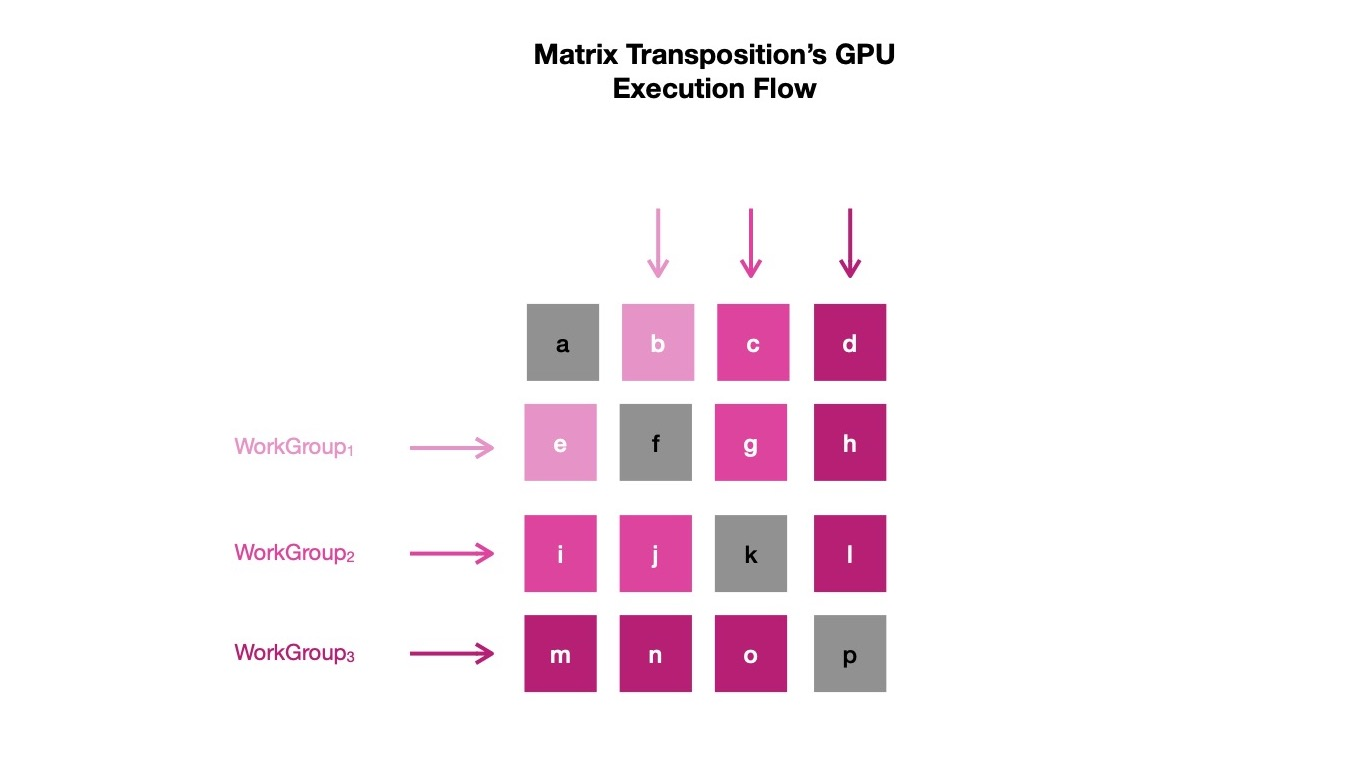
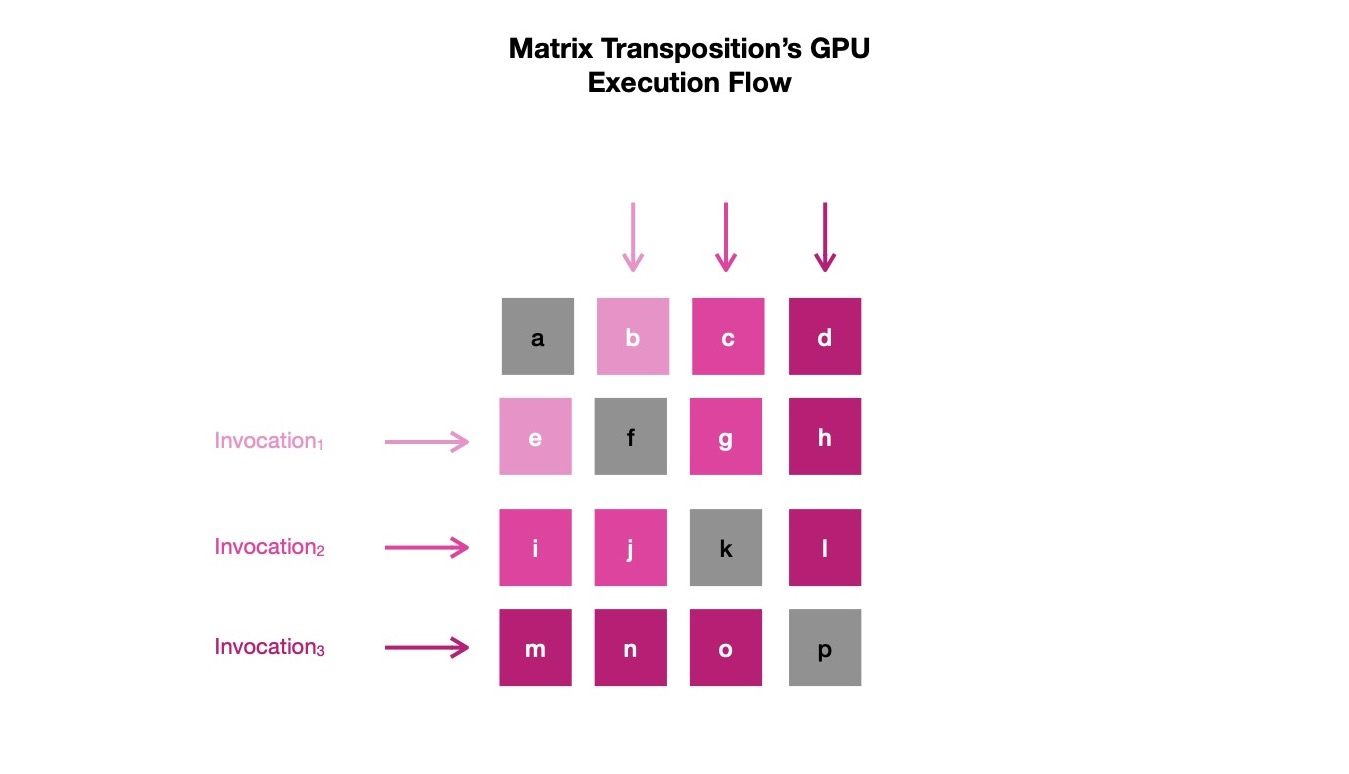
matrix transpose gpu [ wip, close to completion ]

diff --git a/pages/matrix-transposition-with-vulkan-compute.html b/pages/matrix-transposition-with-vulkan-compute.html
@@ -156,6 +156,52 @@
                     <span class="highlight">gl_GlobalInvocationID.x</span> in OpenGL Shading Language ( read GLSL ), which I make use of
                     for writing compute shader. I keep full matrix transposition compute shader
                     <a class="blogLink" target="_blank" href="https://gist.github.com/itzmeanjan/3f6c17217a0dec4a6a981ea7ecf6ab28#file-matrix_transpose-glsl">here</a>.
+                    <br>
+                    <br>
+                    With this compute shader, I can ask Vulkan API to dispatch N-many work groups, each of size 32. It denotes graphics card will invoke compute shader 32
+                    times, in parallel, for 32 row indices of matrix under operation. After one work group completes, another starts, again spawning 32 execution threads.
+                    This way N-many work groups are dispatched in total, resulting into invocation of compute shader N x 32 times. I solve for N & dispatch 32 work groups
+                    when matrix has dimension of 1024 x 1024. Notice, none of these invocations are repeating any row of matrix. Also matrix transposition's smaller
+                    computation steps ( read row/ column switching ) are independent of each other, resulting into no use of synchronization techniques to prevent data race.
+                    <br>
+                    <br>
+                    There may be situations when matrix dimension is not properly divisible by 32, in that case some invocation of shader by Vulkan API
+                    may have <span class="highlight">gl_GlobalInvocationID.x</span> value >= matrix dimension, which are to be ignored, because no row with certain
+                    index exists in matrix under question & accessing that memory from shader should be illegal.
+                </p>
+                <div class="microlight">
+ N x 32 = number-of-rows
+                </div>
+                <p class="blogText">
+                    Remaining part is making matrix data available to GPU accessible memory, so that it can be accessed by compute shader, which requires
+                    me to bind GPU allocated buffers with descriptors defined in shader. And after computation is done, transposed matrix needs to be read
+                    back by CPU executable code, which requires mapping GPU accessible storage buffer to CPU accessible memory space.
+                    I think setting up Vulkan before computation can be enqueued, is quite verbose, requiring
+                    me to specify every single detail of memory allocation, association of descriptor set & pipeline layout with compiled shader module etc..
+                    Though for sake of simplicity I used <span class="highlight">vulkano</span>, which is higher level abstraction
+                    over Vulkan API, hiding some complexities, letting me write portions of GPGPU code in Rust. I keep whole implementation 
+                    <a class="blogLink" target="_blank" href="https://gist.github.com/itzmeanjan/3f6c17217a0dec4a6a981ea7ecf6ab28">here</a> for future reference.
+                    <br>
+                    <br>
+                    Finally it's time to transpose randomly generated 1024 x 1024 matrix, where I compute transposition on both GPU, CPU ( sequential ) & assert
+                    result for correctness.
+                </p>
+                <div class="microlight">
+ $ cargo build --release
+ $ ./target/release/matrix_transpose
+
+ Device: Intel(R) HD Graphics 5500 (BDW GT2)
+ Vulkan API: 1.2.0
+ Queue Count: 1  Compute: true   Graphics: true
+ GPU matrix transpose: 3.994984ms
+ CPU matrix transpose: 22.005047ms
+ Transpose asserted: 1.413437ms
+                </div>
+                <p class="blogText">
+                    In coming days, I plan to explore Vulkan more deeply, while sharing my understanding of how GPGPU can be used for parallelizing computations.
+                    <br>
+                    <br>
+                    Have a great time !
                 </p>
             </article>
         </div>
